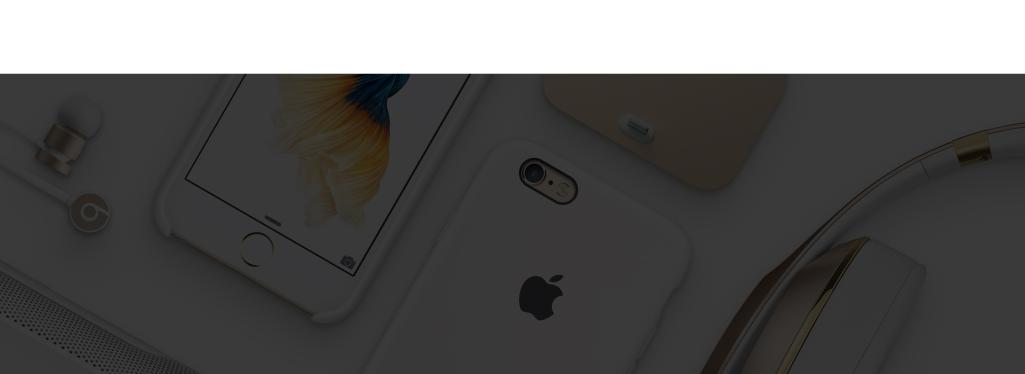
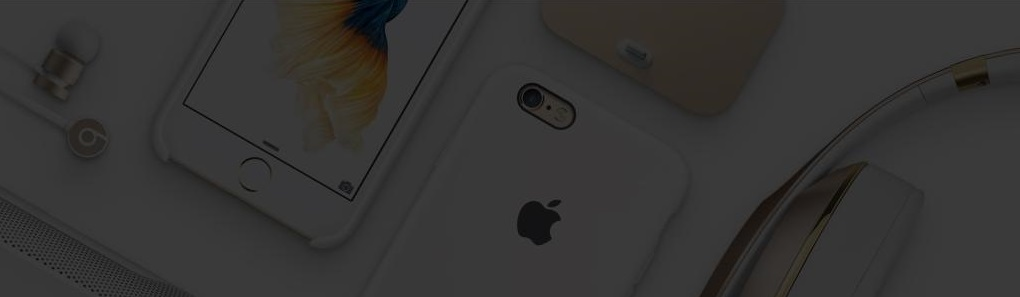
This is second commit

diff --git a/src/components/Menu.js b/src/components/Menu.js
@@ -1,0 +1,105 @@
+import React, { Component } from 'react';
+
+import Row from 'react-bootstrap/lib/Row';
+import Col from 'react-bootstrap/lib/Col';
+import styled from 'styled-components';
+
+const Repair=styled.div`
+	color: #464646;	
+	font-size: 18px;
+	font-weight: 300;
+	line-height: 22px;
+`
+const WorkTime=styled.div`
+	color: #2a2a2a;
+	font-size: 12px;
+	font-weight: 300;
+	line-height: 24px;
+	font-weight: 300;
+	
+	span {
+		display:block;
+		color: #464646;
+		font-size: 21px;
+		font-weight: 700;
+	}
+`
+const Calls=styled.div`
+	color: #2a2a2a;
+	font-size: 12px;
+	font-weight: 300;
+	line-height: 24px;
+	font-weight: 300;
+	
+	span {
+		display:block;
+		color: #464646;
+		font-size: 21px;
+		font-weight: 700;
+	}
+`
+
+const CallButton=styled.button`
+	width: 176px;
+	height: 48px;
+	background-color: #3fc7db;
+	border-radius:30px;
+	border:none
+	color: #ffffff;
+	font-size: 14px;
+	font-weight: 400;
+	line-height: 22.04px;
+`
+
+class Adress extends React.Component{
+	render(){
+		return(
+				<span>{this.props.addr}</span>
+			)
+	}
+
+}
+
+class TelNumber extends React.Component{
+	render(){
+		return(
+				<span>{this.props.tel}</span>
+			)
+	}
+
+}
+
+class Menu extends React.Component {
+	render(){
+		return(
+			<Row>
+				<Col lg={3}>
+					<Repair> 
+						Ремонт айфонов в сервисном
+						центре и на выезде
+					</Repair>
+				</Col>
+				<Col lg={3} lgOffset={1}>
+					<WorkTime> 
+						Пн-пт с 10 до 20, сб,вс с 11 до 18
+						<Adress addr="Ленинская, 301"/>
+					</WorkTime>	
+				</Col>
+				<Col lg={3}>
+					<Calls> 
+						Звонки принимаются 24 часа
+						<TelNumber tel="8 (846) 922 55 44 "/>
+					</Calls>	
+				</Col>
+				<Col lg={2}>
+					<CallButton>
+						Заказать звонок
+					</CallButton>	
+				</Col>
+			</Row>	
+		)
+	}
+
+}
+
+export default Menu

diff --git a/src/components/Main.js b/src/components/Main.js
@@ -1,0 +1,69 @@
+import React, { Component } from 'react';
+
+import Row from 'react-bootstrap/lib/Row';
+import Col from 'react-bootstrap/lib/Col';
+import styled from 'styled-components';
+
+const Repair=styled.div`
+	color: #ffffff;	
+	font-weight: 700;
+	line-height: 50px;
+	font-size: 40px;
+
+	span{
+		display:block;
+		font-size: 24px;
+		line-height: 30px;
+
+	}
+`
+
+const LightText=styled.div`
+	color: #ffffff;
+	font-size: 18px;
+	font-weight: 300;
+	line-height: 28px;
+	margin-top:54px;
+`
+
+const CallButton=styled.button`
+	width: 247px;
+	height: 67px;
+	background-color: #ffa14b;
+	color: #ffffff;	
+	font-size: 18px;
+	font-weight: bold;
+	line-height: 24px;
+	border:none;
+	border-radius:30px;
+	margin-top:32px;
+`
+
+class Main extends React.Component {
+	render(){
+		return(
+				<Row>
+					<Col lg={5}>
+						<Repair>
+							Качественный ремонт
+							<span>iphone за 35 минут и гарантия 1 год</span>
+						</Repair>
+						<LightText>
+							Оставьте заявку на бесплатную диагностику без очереди,
+							и получите защитное стекло, стоимостью 1000 рублей,
+							с установкой в подарок!
+						</LightText>
+						<CallButton>
+							Отправить заявку!
+						</CallButton>
+					</Col>
+					<Col lg={6} lgOffset={1}>
+
+					</Col>
+				</Row>
+			)
+	}
+
+}
+
+export default Main

diff --git a/src/App.js b/src/App.js
@@ -3,17 +3,52 @@ import logo from './logo.svg';
 import './App.css';
 
 import Grid from 'react-bootstrap/lib/Grid';
-import Row from 'react-bootstrap/lib/Row';
-import Col from 'react-bootstrap/lib/Col';
 import styled from 'styled-components';
 
-class App extends Component {
+import Header from './components/Header';
+import Menu from './components/Menu';
+import Main from './components/Main';
+
+const url=process.env.PUBLIC_URL + '/img/bg.jpg'
+
+const HeaderWrapper=styled.header`
+	width:100%;
+	height: 49px;
+	background-color: #242424;
+	opacity: 0.8;
+`
+const MenuWrapper=styled.div`
+	height:89px;
+	padding-top:20px;
+`
+
+const MainWrapper=styled.main`
+	height:600px;
+	padding-top:130px;
+	background:url(${url}) no-repeat;
+	background-size: cover;
+`
+
+class App extends React.Component {
   render() {
     return (
-<h1> Hello World! </h1>
-    
-
-
+    	<div className='App'>
+    		<HeaderWrapper>
+	    		<Grid>
+		    		<Header />
+		    	</Grid>
+		    </HeaderWrapper>
+		    <MenuWrapper>
+		    	<Grid>		    		
+		    		<Menu />
+		    	</Grid>	
+		    </MenuWrapper>
+		    <MainWrapper>
+		    	<Grid>
+		    		<Main />
+		    	</Grid>
+		    </MainWrapper>		
+    	</div>
     );
   }
 }

diff --git a/src/components/Header.js b/src/components/Header.js
@@ -1,0 +1,41 @@
+import React, { Component } from 'react';
+
+import Row from 'react-bootstrap/lib/Row';
+import Col from 'react-bootstrap/lib/Col';
+import styled from 'styled-components';
+
+import Link from './Link'
+
+const List=styled.ul`
+	height: 49px;
+	display:flex;
+	justify-content:space-around;
+	align-items: center;
+	padding: 0;
+
+`
+
+class Header extends React.Component {
+	render(){
+		return(
+				<Row>
+					<Col lg={12}>
+						<nav>
+							<List>
+								<Link link="#" text="Вызов мастера" />
+								<Link link="#" text="Прайс на ремонт" />
+								<Link link="#" text="Наши примущества" />
+								<Link link="#" text="Схема работы" />
+								<Link link="#" text="Отзывы клиентов" />
+								<Link link="#" text="Примеры работ" />
+								<Link link="#" text="Контакты" />
+							</List>
+						</nav>
+					</Col>
+				</Row>
+			);
+	}
+
+}
+
+export default Header

diff --git a/src/components/Link.js b/src/components/Link.js
@@ -1,0 +1,31 @@
+import React, { Component } from 'react';
+import styled from 'styled-components';
+
+const StyledLink=styled.a`
+	color: ${props=>props.active ? "pink":"#fff"};
+	font-size: 14px;
+	font-weight: 300;
+	line-height: 24px;
+	padding-right: 33px;
+	border-right: 1px dashed #fff;
+
+	&:hover{
+		color: #8d8d8d;
+	}
+
+	&:last-child{
+		border:none;
+	}
+`
+
+
+
+class Link extends React.Component {
+  render() {
+    return (
+    	<StyledLink active href={this.props.link}> {this.props.text}</StyledLink>
+    );
+  }
+}
+
+export default Link

diff --git a/src/App.css b/src/App.css
@@ -1,28 +1,8 @@
+*{
+  outline: none;
+}
 .App {
-  text-align: center;
-}
-
-.App-logo {
-  animation: App-logo-spin infinite 20s linear;
-  height: 80px;
-}
-
-.App-header {
-  background-color: #222;
-  height: 150px;
-  padding: 20px;
-  color: white;
-}
-
-.App-title {
-  font-size: 1.5em;
-}
-
-.App-intro {
-  font-size: large;
-}
-
-@keyframes App-logo-spin {
-  from { transform: rotate(0deg); }
-  to { transform: rotate(360deg); }
+  box-sizing: border-box;
+  width: 100%;
+  font-family: "Roboto";
 }
